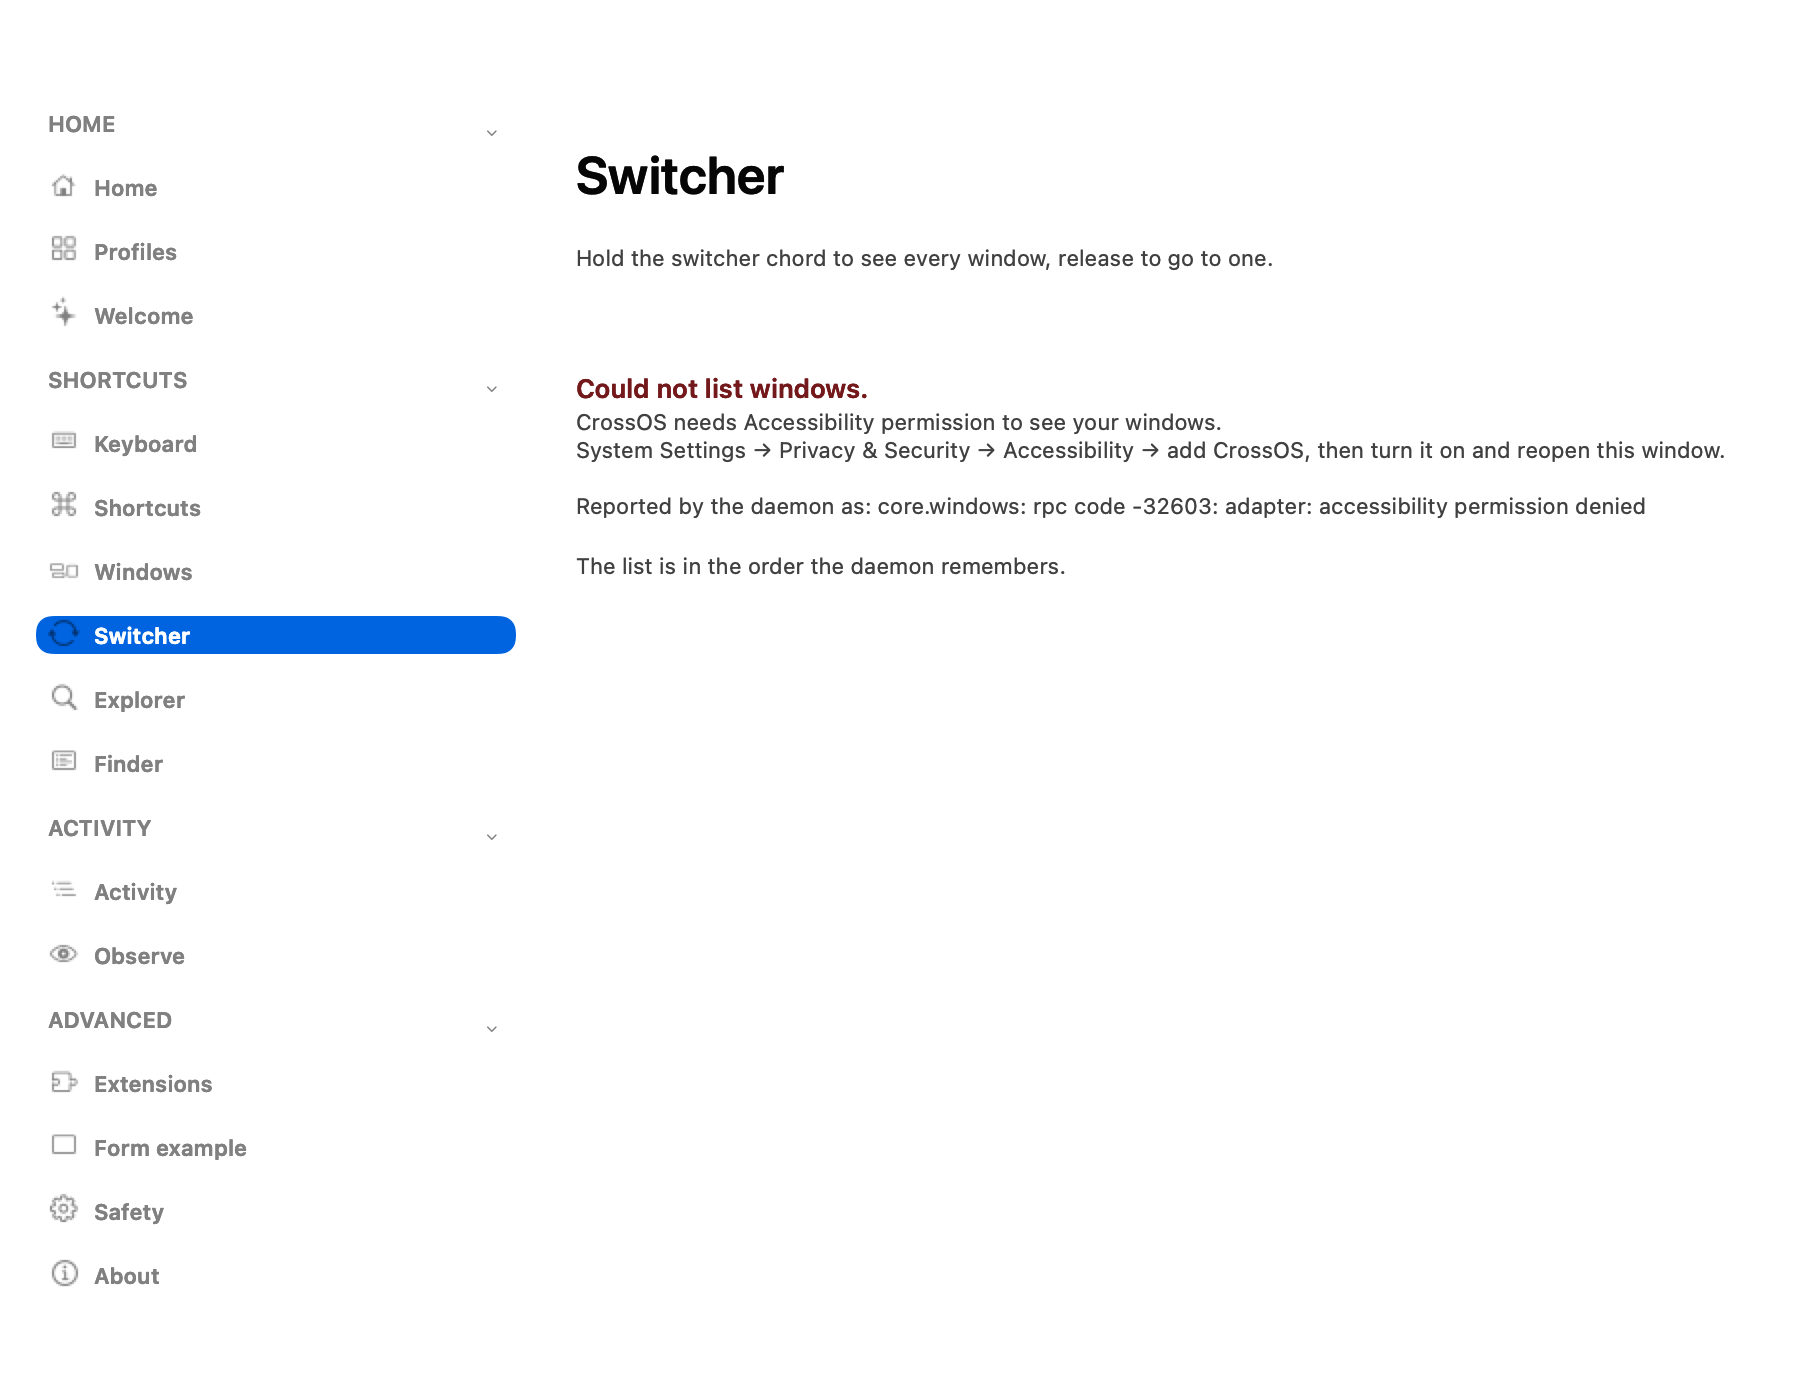
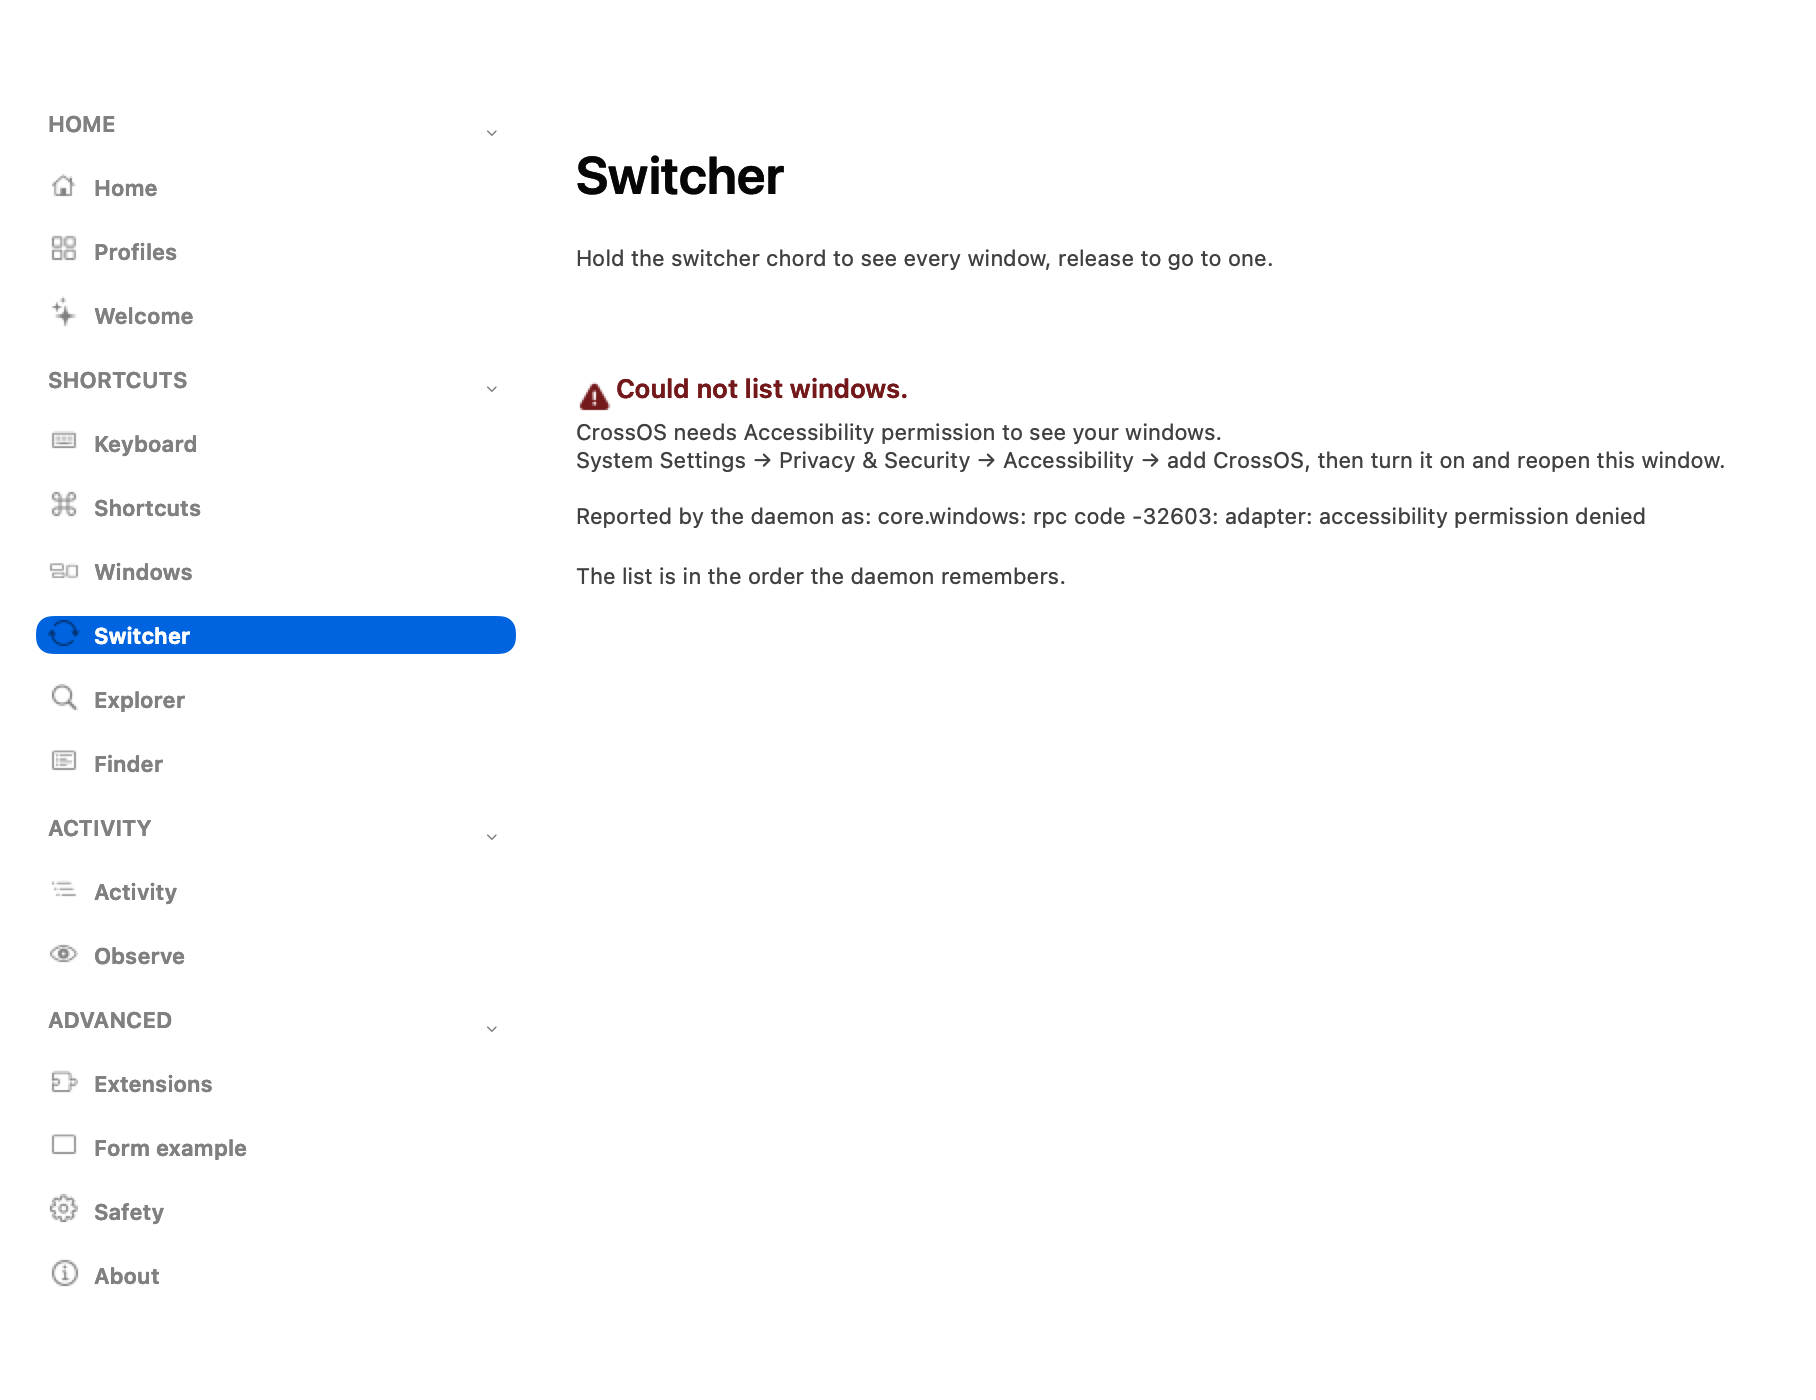
feat: a failure is no longer signalled by red text alone
`ErrorView` drew its headline in `dangerInk` and its detail in
`secondaryInk`, with nothing else to tell a reader that this card was a
failure rather than a caption. That is WCAG 1.4.1 — colour must not be
the only thing carrying the meaning — so it now carries
`exclamationmark.triangle.fill` beside the headline, which is also how a
Mac says it.

The symbol sits beside the **headline only**. An icon beside the whole
card would sit next to a caption that is not the failure, which is worse
than no icon: the sign has to point at the thing that went wrong.

**Contrast was never the problem here, and it is worth saying so.**
`dangerInk` clears 4.5:1 on the card in both appearances, and
`--audit --appearance=dark` confirms it. The failure was that a reader
who cannot separate red from grey reads the whole message as a caption —
a legibility problem and an encoding problem are different things, and
only one of them is a contrast ratio.

**The eighth audit check**, and the only one that builds and lays out
something itself instead of inspecting the app. Every other error check
reads source text, because the real failures only appear when the daemon
is down and the audit cannot run. This one needs no daemon, and measuring
the rendered view catches what the string cannot: a message that reads
correctly and still has nothing but colour on it.

Proven by removing the symbol and watching it report `1 fail`, then
restoring.
[…]

Changed region(s): [[0.3084, 0.2457, 0.9559, 0.43]]

diff --git a/macos/Sources/CrossOSApp/CardControl.swift b/macos/Sources/CrossOSApp/CardControl.swift
@@ -262,6 +262,30 @@ final class ErrorView: NSStackView {
         let headlineField = NSTextField(labelWithString: headline)
         headlineField.font = Typeface.bodyStrong
         headlineField.textColor = Palette.dangerInk
+
+        // A SYMBOL, not just the red.
+        //
+        // `ErrorView` signalled failure with colour alone: a headline in
+        // `dangerInk` and a detail in `secondaryInk`, with nothing else
+        // distinguishing it from an ordinary card. That is WCAG 1.4.1 —
+        // colour must not be the only thing carrying the meaning — and it is
+        // also just how a Mac says it: the system puts
+        // `exclamationmark.triangle.fill` beside a message that went wrong.
+        //
+        // Measured contrast was never the problem here: `dangerInk` clears
+        // 4.5:1 on the card in BOTH appearances, and `--audit --appearance=dark`
+        // confirms it. The problem is that a reader who cannot separate red
+        // from grey reads the failure as a caption.
+        let mark = NSImageView()
+        mark.image = NSImage(systemSymbolName: "exclamationmark.triangle.fill",
+                             accessibilityDescription: "Error")
+        mark.contentTintColor = Palette.dangerInk
+        mark.symbolConfiguration = NSImage.SymbolConfiguration(pointSize: NSFont.systemFontSize + 1,
+                                                              weight: .semibold)
+        mark.translatesAutoresizingMaskIntoConstraints = false
+        mark.setContentHuggingPriority(.required, for: .horizontal)
+        mark.widthAnchor.constraint(equalToConstant: 18).isActive = true
+        mark.heightAnchor.constraint(equalToConstant: 18).isActive = true
         headlineField.lineBreakMode = .byWordWrapping
         headlineField.maximumNumberOfLines = 0
 
@@ -271,7 +295,17 @@ final class ErrorView: NSStackView {
         detailField.lineBreakMode = .byWordWrapping
         detailField.maximumNumberOfLines = 0
 
-        let column = NSStackView(views: [headlineField, detailField])
+        // The symbol sits beside the HEADLINE only. Putting it beside the
+        // whole card would put an icon next to a caption that is not the
+        // failure, which is worse than no icon — the sign has to point at the
+        // thing that failed.
+        let titleRow = NSStackView(views: [mark, headlineField])
+        titleRow.orientation = .horizontal
+        titleRow.alignment = .firstBaseline
+        titleRow.spacing = Gap.tight
+        titleRow.translatesAutoresizingMaskIntoConstraints = false
+
+        let column = NSStackView(views: [titleRow, detailField])
         column.orientation = .vertical
         column.alignment = .leading
         column.spacing = Gap.tight

diff --git a/macos/Sources/CrossOSApp/Audit.swift b/macos/Sources/CrossOSApp/Audit.swift
@@ -489,6 +489,41 @@ enum Audit {
         return ""
     }
 
+    /// Does a rendered failure carry a signal other than its colour?
+    ///
+    /// The eighth check, and the only one that renders something itself
+    /// instead of inspecting the app: it builds an `ErrorView`, lays it out,
+    /// and asks what a reader who cannot separate `dangerInk` from
+    /// `secondaryInk` would have left.
+    ///
+    /// Building it is the point. Every other error check reads source text,
+    /// because the real failures only appear when the daemon is down and the
+    /// audit cannot run. This one does not need a daemon, and measuring the
+    /// live view rather than the string catches the case the string cannot:
+    /// a message that reads correctly and still has nothing but colour on it.
+    static func errorSignalAudit() -> [Finding] {
+        let view = ErrorView(headline: "Could not read the profiles.",
+                             detail: didNotAnswer("core.profiles"))
+        view.frame = NSRect(x: 0, y: 0, width: 600, height: 120)
+        view.layoutSubtreeIfNeeded()
+
+        var findings: [Finding] = []
+        let symbols = collect(view).filter {
+            String(describing: type(of: $0)).contains("ImageView")
+        }
+        if symbols.isEmpty {
+            findings.append(Finding(
+                severity: .fail, page: "errors",
+                what: "a failure is signalled by colour alone",
+                detail: "the rendered ErrorView carries no image and no non-colour marker, so the whole "
+                      + "meaning of \"this went wrong\" is `dangerInk` versus `secondaryInk`. That is WCAG "
+                      + "1.4.1 — colour must not be the only thing carrying the meaning — and a reader who "
+                      + "cannot separate red from grey reads a failure as a caption."
+            ))
+        }
+        return findings
+    }
+
     static func fitAudit(root: NSView, page: String) -> [Finding] {
         var findings: [Finding] = []
         let leaves = collect(root)

diff --git a/macos/Sources/CrossOSApp/App.swift b/macos/Sources/CrossOSApp/App.swift
@@ -649,6 +649,7 @@ final class AppDelegate: NSObject, NSApplicationDelegate {
             + Audit.contrastMatrix(inAppearance: .darkAqua)
             + Audit.rhythmAudit()
             + Audit.errorCopyAudit()
+            + Audit.errorSignalAudit()
         var findings = systemFindings
         print("design system")
         AuditPrinter.emitPage("design system", findings: systemFindings)
